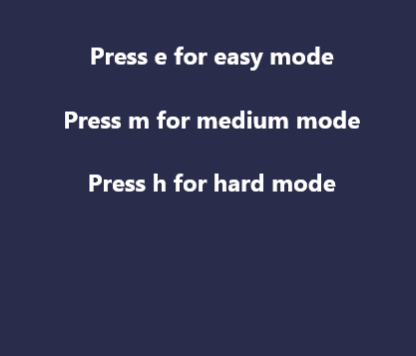
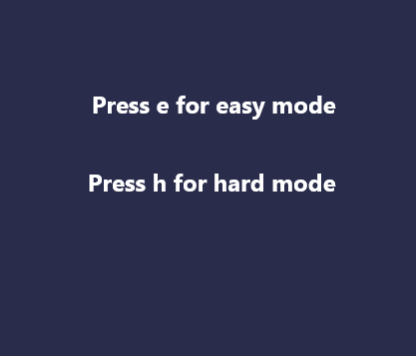
#7 feat: create modes

Changed region(s): [[0.1562, 0.2472, 0.875, 0.3708], [0.2188, 0.1236, 0.8125, 0.2163]]

diff --git a/space-invader/main.py b/space-invader/main.py
@@ -21,12 +21,6 @@ def player(x,y):
 enemy_img = pygame.image.load('space-invader\\enemy.png')
 enemy_x,enemy_y = [],[]
 enemy_x_change,enemy_y_change = [],[]
-num_of_enemies = 6
-for i in range(num_of_enemies):
-    enemy_x.append(random.randint(0,735))
-    enemy_y.append(random.randint(10,200))
-    enemy_x_change.append(0.2)
-    enemy_y_change.append(45)
 def enemy(x,y):
     screen.blit(enemy_img,(x,y))
 
@@ -72,13 +66,10 @@ def game_banner(x,y):
             if event.type == pygame.KEYDOWN:
                 if event.key == pygame.K_p:
                     mode_img = pygame.image.load('space-invader\\mode.png')
-                    screen.blit(mode_img,(x,y-30))
+                    screen.blit(mode_img,(x,y-50))
                     pygame.display.update()
                 elif event.key == pygame.K_e:
                     mode = 'easy'
-                    show = False
-                elif event.key == pygame.K_m:
-                    mode = 'medium'
                     show = False
                 elif event.key == pygame.K_h:
                     mode = 'hard'
@@ -87,7 +78,7 @@ def game_banner(x,y):
                     controls_img = pygame.image.load('space-invader\\controls.png')
                     screen.blit(controls_img,(x-2,y-40))
                     pygame.display.update()
-    return
+    return mode
 def intro2(x,y):
     screen.fill((41,44,75))
     intro_run = True
@@ -100,10 +91,23 @@ def intro2(x,y):
         pygame.display.update()
     return y
 
-mode = ''
 player_y = intro(player_x,player_y)
-game_banner(190,220)
+mode = game_banner(190,220)
 player_y = intro2(player_x,player_y)
+
+# Modes
+if mode == 'easy':
+    num_of_enemies = 5
+    change = 0.4
+elif mode == 'hard':
+    num_of_enemies = 10
+    change = 0.6
+
+for i in range(num_of_enemies):
+    enemy_x.append(random.randint(0,735))
+    enemy_y.append(random.randint(10,200))
+    enemy_x_change.append(change)
+    enemy_y_change.append(45)
 
 # Score
 score_value = 0
@@ -112,17 +116,6 @@ text_x,text_y = 620,20
 def show_score(x,y):
     score = font.render('Score: '+str(score_value),True,(255,255,255))
     screen.blit(score,(x,y))
-
-# Modes
-if mode == 'easy':
-    enemy_x_change = 0.2
-elif mode == 'medium':
-    #enemy_no % 2 != 0  --> enemy_x_change = 0.2
-    #enemy_no % 2 == 0  --> enemy_x_change = -0.2
-    enemy_x_change = 0.2
-elif mode == 'hard':
-    # random movement for each enemy
-    enemy_x_change = 0.2
 
 # Game loop
 running = True
@@ -140,9 +133,9 @@ while running:
     # For moving the player ship & firing bullets
         if event.type == pygame.KEYDOWN:
             if event.key == pygame.K_LEFT:
-                player_x_change = -0.3
+                player_x_change = -0.5
             if event.key == pygame.K_RIGHT:
-                player_x_change = 0.3
+                player_x_change = 0.5
             if event.key == pygame.K_SPACE:
                 if bullet_state is 'ready':
                     bullet_x = player_x
@@ -169,10 +162,10 @@ while running:
     # For enemy movement
     for j in range(num_of_enemies):
         if enemy_x[j] <= 0:
-            enemy_x_change[j] = 0.2
+            enemy_x_change[j] = change
             enemy_y[j] += enemy_y_change[j]
         elif enemy_x[j] >= 736:
-            enemy_x_change[j] = -0.2
+            enemy_x_change[j] = -change
             enemy_y[j] += enemy_y_change[j]
         enemy_x[j] += enemy_x_change[j]
         enemy(enemy_x[j],enemy_y[j])
